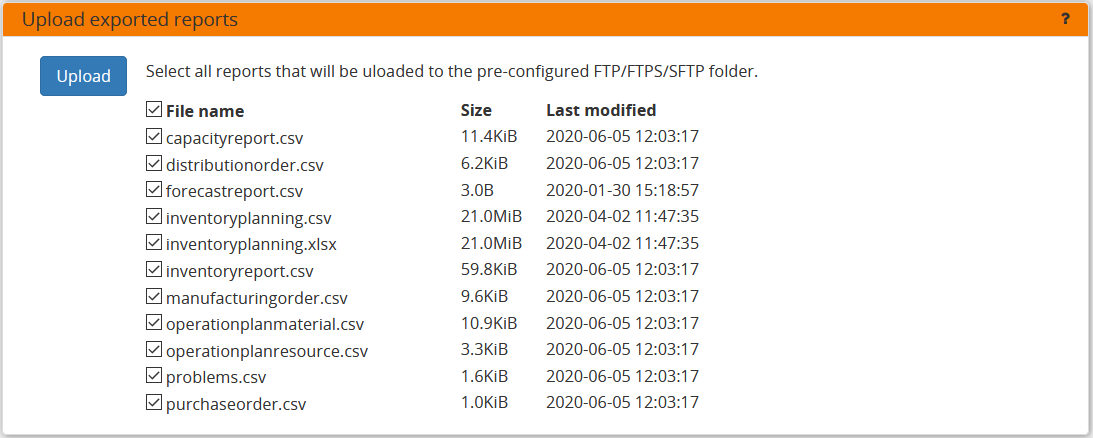
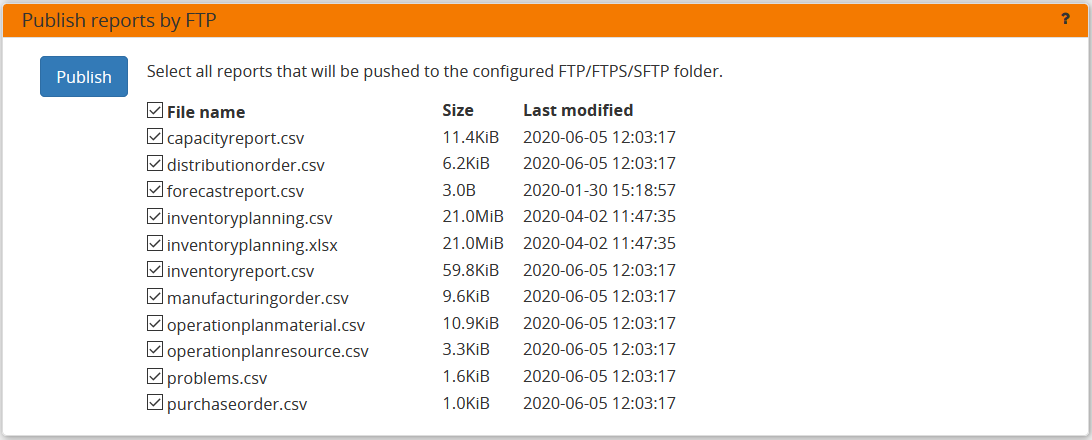
rename upload reports and email reports to publish reports by email/ftp

diff --git a/freppledb/execute/templates/commands/uploadreport.html b/freppledb/execute/templates/commands/uploadreport.html
@@ -3,10 +3,10 @@
   <table>
     <tr>
       <td style="vertical-align:top; padding-left:15px">
-        <button type="submit" class="btn btn-primary" id="uploadreport" value="upload" {{initially_disabled}}>{% trans "upload"|capfirst %}</button>
+        <button type="submit" class="btn btn-primary" id="uploadreport" value="upload" {{initially_disabled}}>{% trans "publish"|capfirst %}</button>
       </td>
       <td colspan='5' style="padding-left:15px">
-        <p>{% trans "Select all reports that will be uloaded to the pre-configured FTP/FTPS/SFTP folder." %}</p>
+        <p>{% trans "Select all reports that will be pushed to the configured FTP/FTPS/SFTP folder." %}</p>
       </td>
     </tr>
     <tr>

diff --git a/freppledb/execute/templates/commands/emailreport.html b/freppledb/execute/templates/commands/emailreport.html
@@ -3,7 +3,7 @@
   <table>
     <tr>
       <td style="vertical-align:top; padding-left:15px">
-        <button type="submit" class="btn btn-primary" id="emailreport" value="email" {{initially_disabled}}>{% trans "email"|capfirst %}</button>
+        <button type="submit" class="btn btn-primary" id="emailreport" value="email" {{initially_disabled}}>{% trans "publish"|capfirst %}</button>
       </td>
       <td colspan='5' style="padding-left:15px">
         <p>{% trans "Emails the selected reports to a comma separated list of recipients. Files are zipped and attached to email." %}</p>

diff --git a/freppledb/execute/management/commands/emailreport.py b/freppledb/execute/management/commands/emailreport.py
@@ -228,7 +228,7 @@ class Command(BaseCommand):
                 task.save(using=database)
 
     # accordion template
-    title = _("Email exported reports")
+    title = _("Publish reports by email")
     index = 1250
     help_url = "command-reference.html#emailreport"
 
@@ -237,6 +237,7 @@ class Command(BaseCommand):
 
         if (
             "FILEUPLOADFOLDER" not in settings.DATABASES[request.database]
+            or not not settings.EMAIL_HOST
             or not request.user.is_superuser
         ):
             return None

diff --git a/freppledb/execute/management/commands/uploadreport.py b/freppledb/execute/management/commands/uploadreport.py
@@ -214,7 +214,7 @@ class Command(BaseCommand):
                 task.save(using=database)
 
     # accordion template
-    title = _("Upload exported reports")
+    title = _("Publish reports by FTP")
     index = 1275
     help_url = "command-reference.html#uploadreport"
 

diff --git a/doc/command-reference.rst b/doc/command-reference.rst
@@ -208,8 +208,8 @@ This command is available in the user interface, the command line and the web AP
     
 .. _emailreport:
 
-Email exported reports
-----------------------
+Publish reports by email
+------------------------
 
 Reports that have been exported using *Export plan result to folder* command can be 
 emailed to one or more recipients.
@@ -226,7 +226,7 @@ This command is available in the user interface, the command line and the web AP
 * Execution screen:
 
   .. image:: /user-interface/_images/execution-emailreport.png
-     :alt: Execution screen - Email exported reports
+     :alt: Execution screen - Publish reports by email
 
 * Command line::
 
@@ -235,16 +235,16 @@ This command is available in the user interface, the command line and the web AP
 
 * Web API::
     
-    Email exported reports:
+    Publish reports by email:
     POST /execute/api/emailreport/?recipient=recipient1,recipient2...&report=report1,report2,report3...
     
 .. _uploadreport:
 
-Upload exported reports
+Publish reports by FTP
 ----------------------
 
 Reports that have been exported using *Export plan result to folder* command can be 
-uploaded to a server using a ftp, ftps or sftp connection.
+pushed to a server using a ftp, ftps or sftp connection.
 
 
 In order to have this command working, the FTP parameters in the djangosettings.py 
@@ -257,7 +257,7 @@ This command is available in the user interface, the command line and the web AP
 * Execution screen:
 
   .. image:: /user-interface/_images/execution-uploadreport.png
-     :alt: Execution screen - Upload exported reports
+     :alt: Execution screen - Publish reports by FTP
 
 * Command line::
 
@@ -266,7 +266,7 @@ This command is available in the user interface, the command line and the web AP
 
 * Web API::
     
-    Email exported reports:
+    Publish reports by ftp:
     POST /execute/api/uploadreport/?report=report1,report2,report3...
 
 
